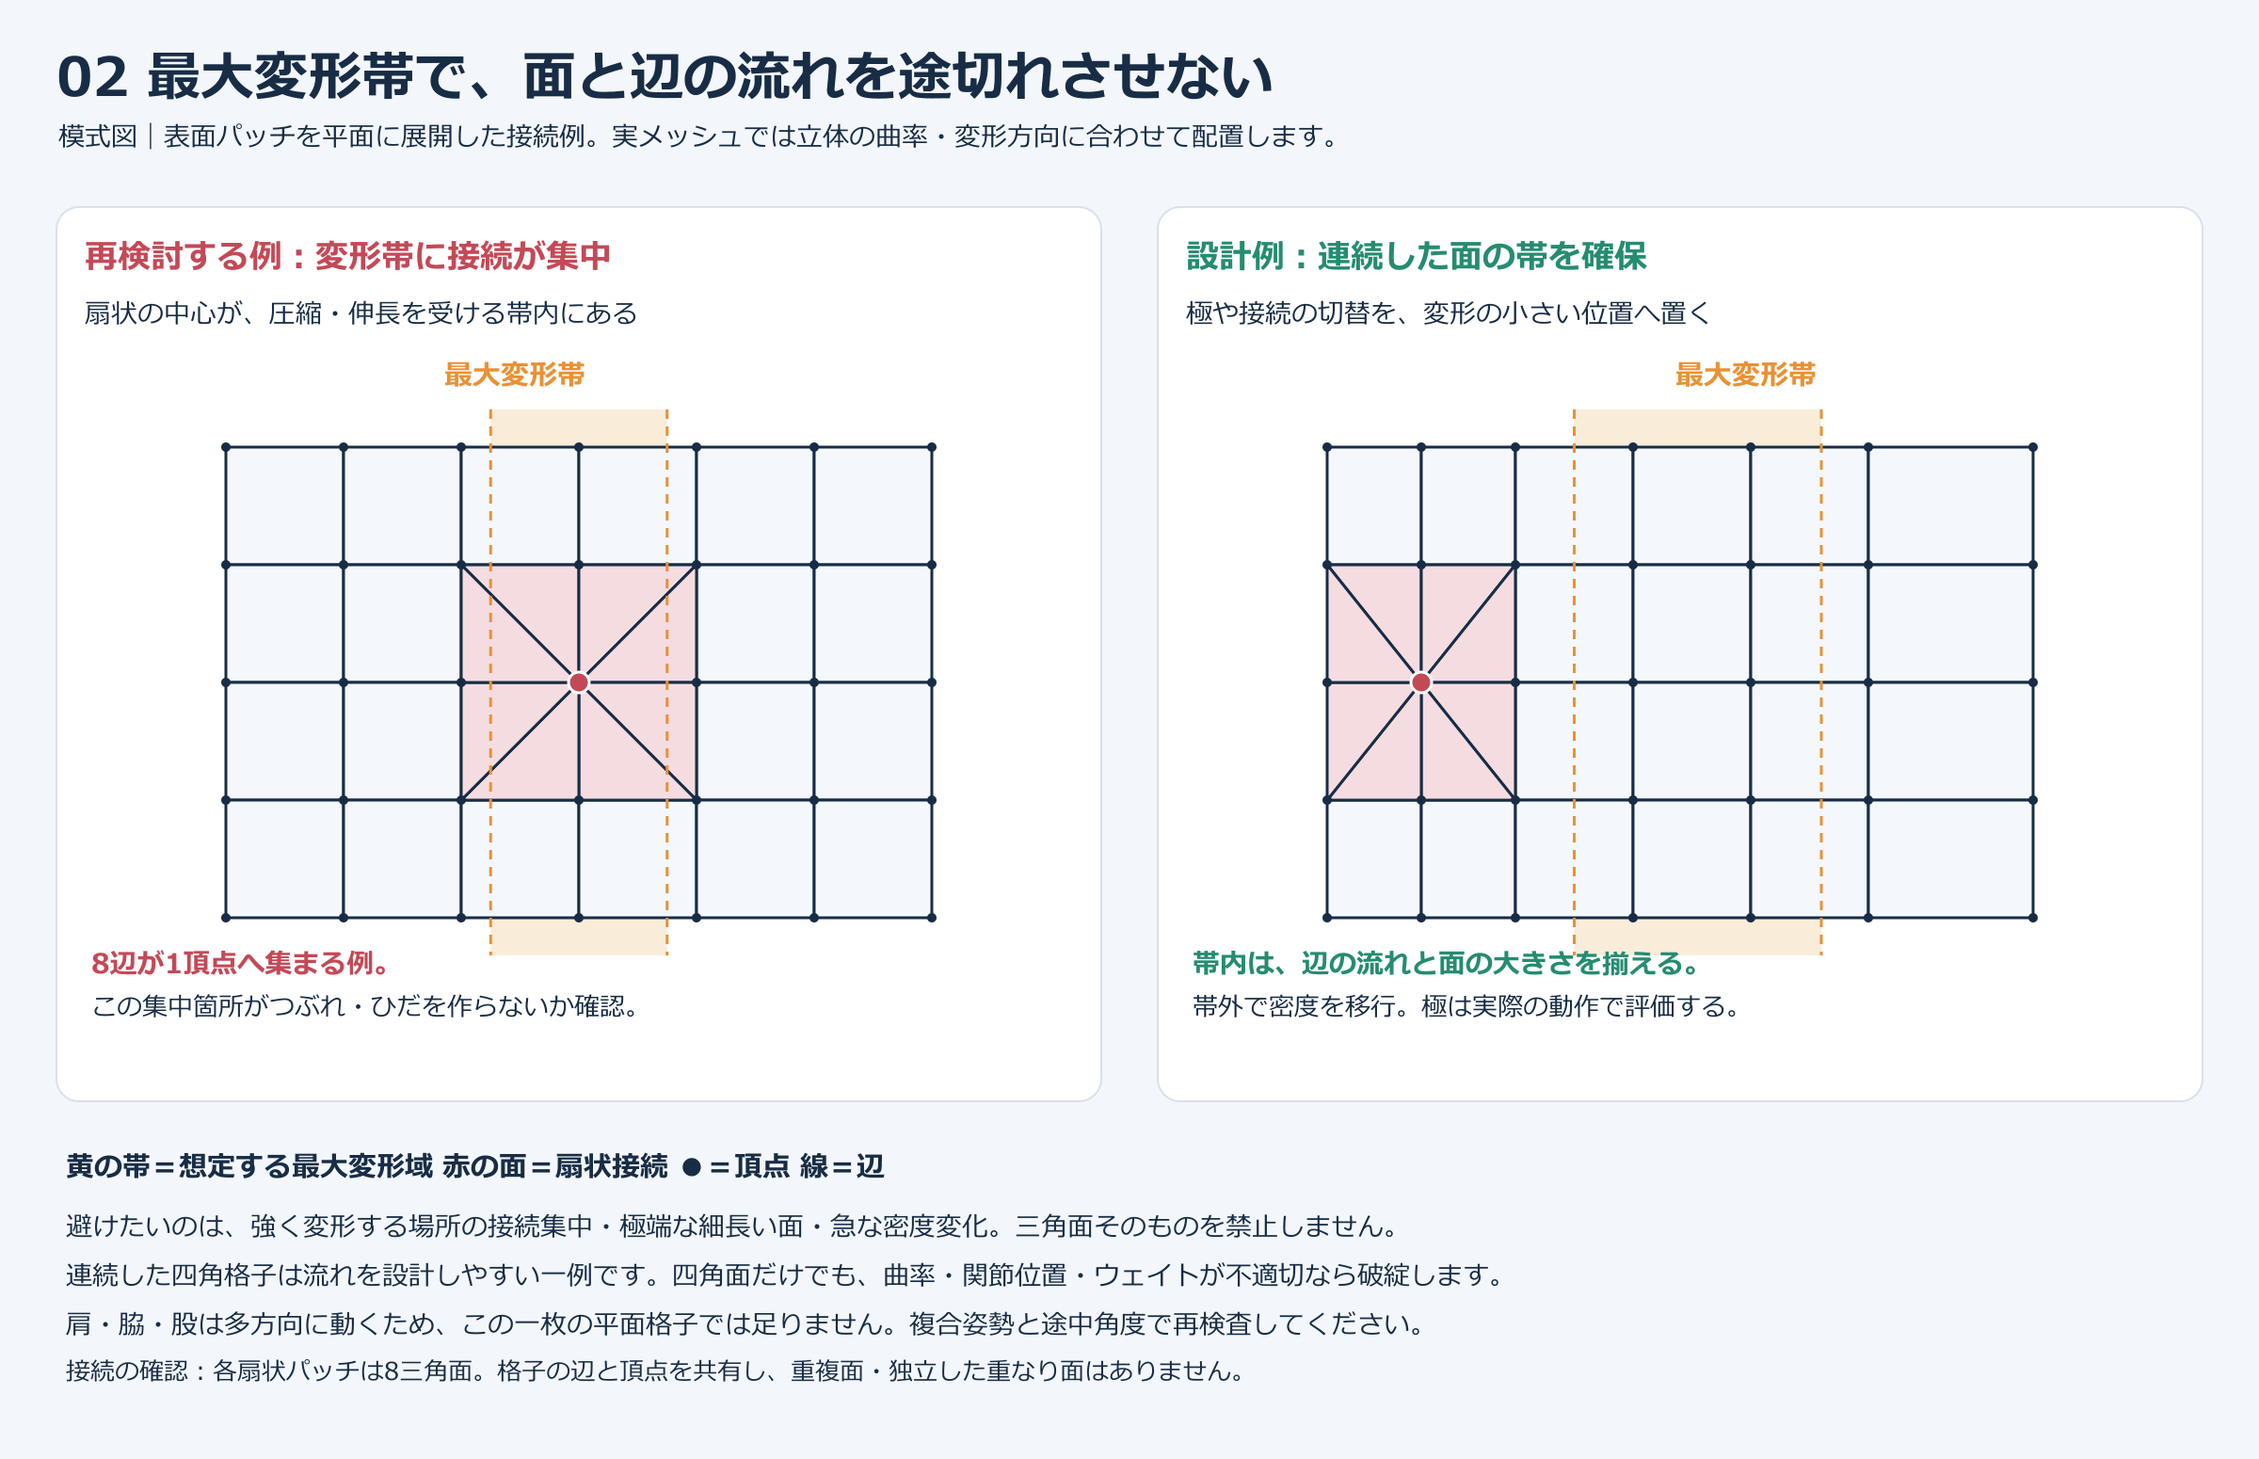
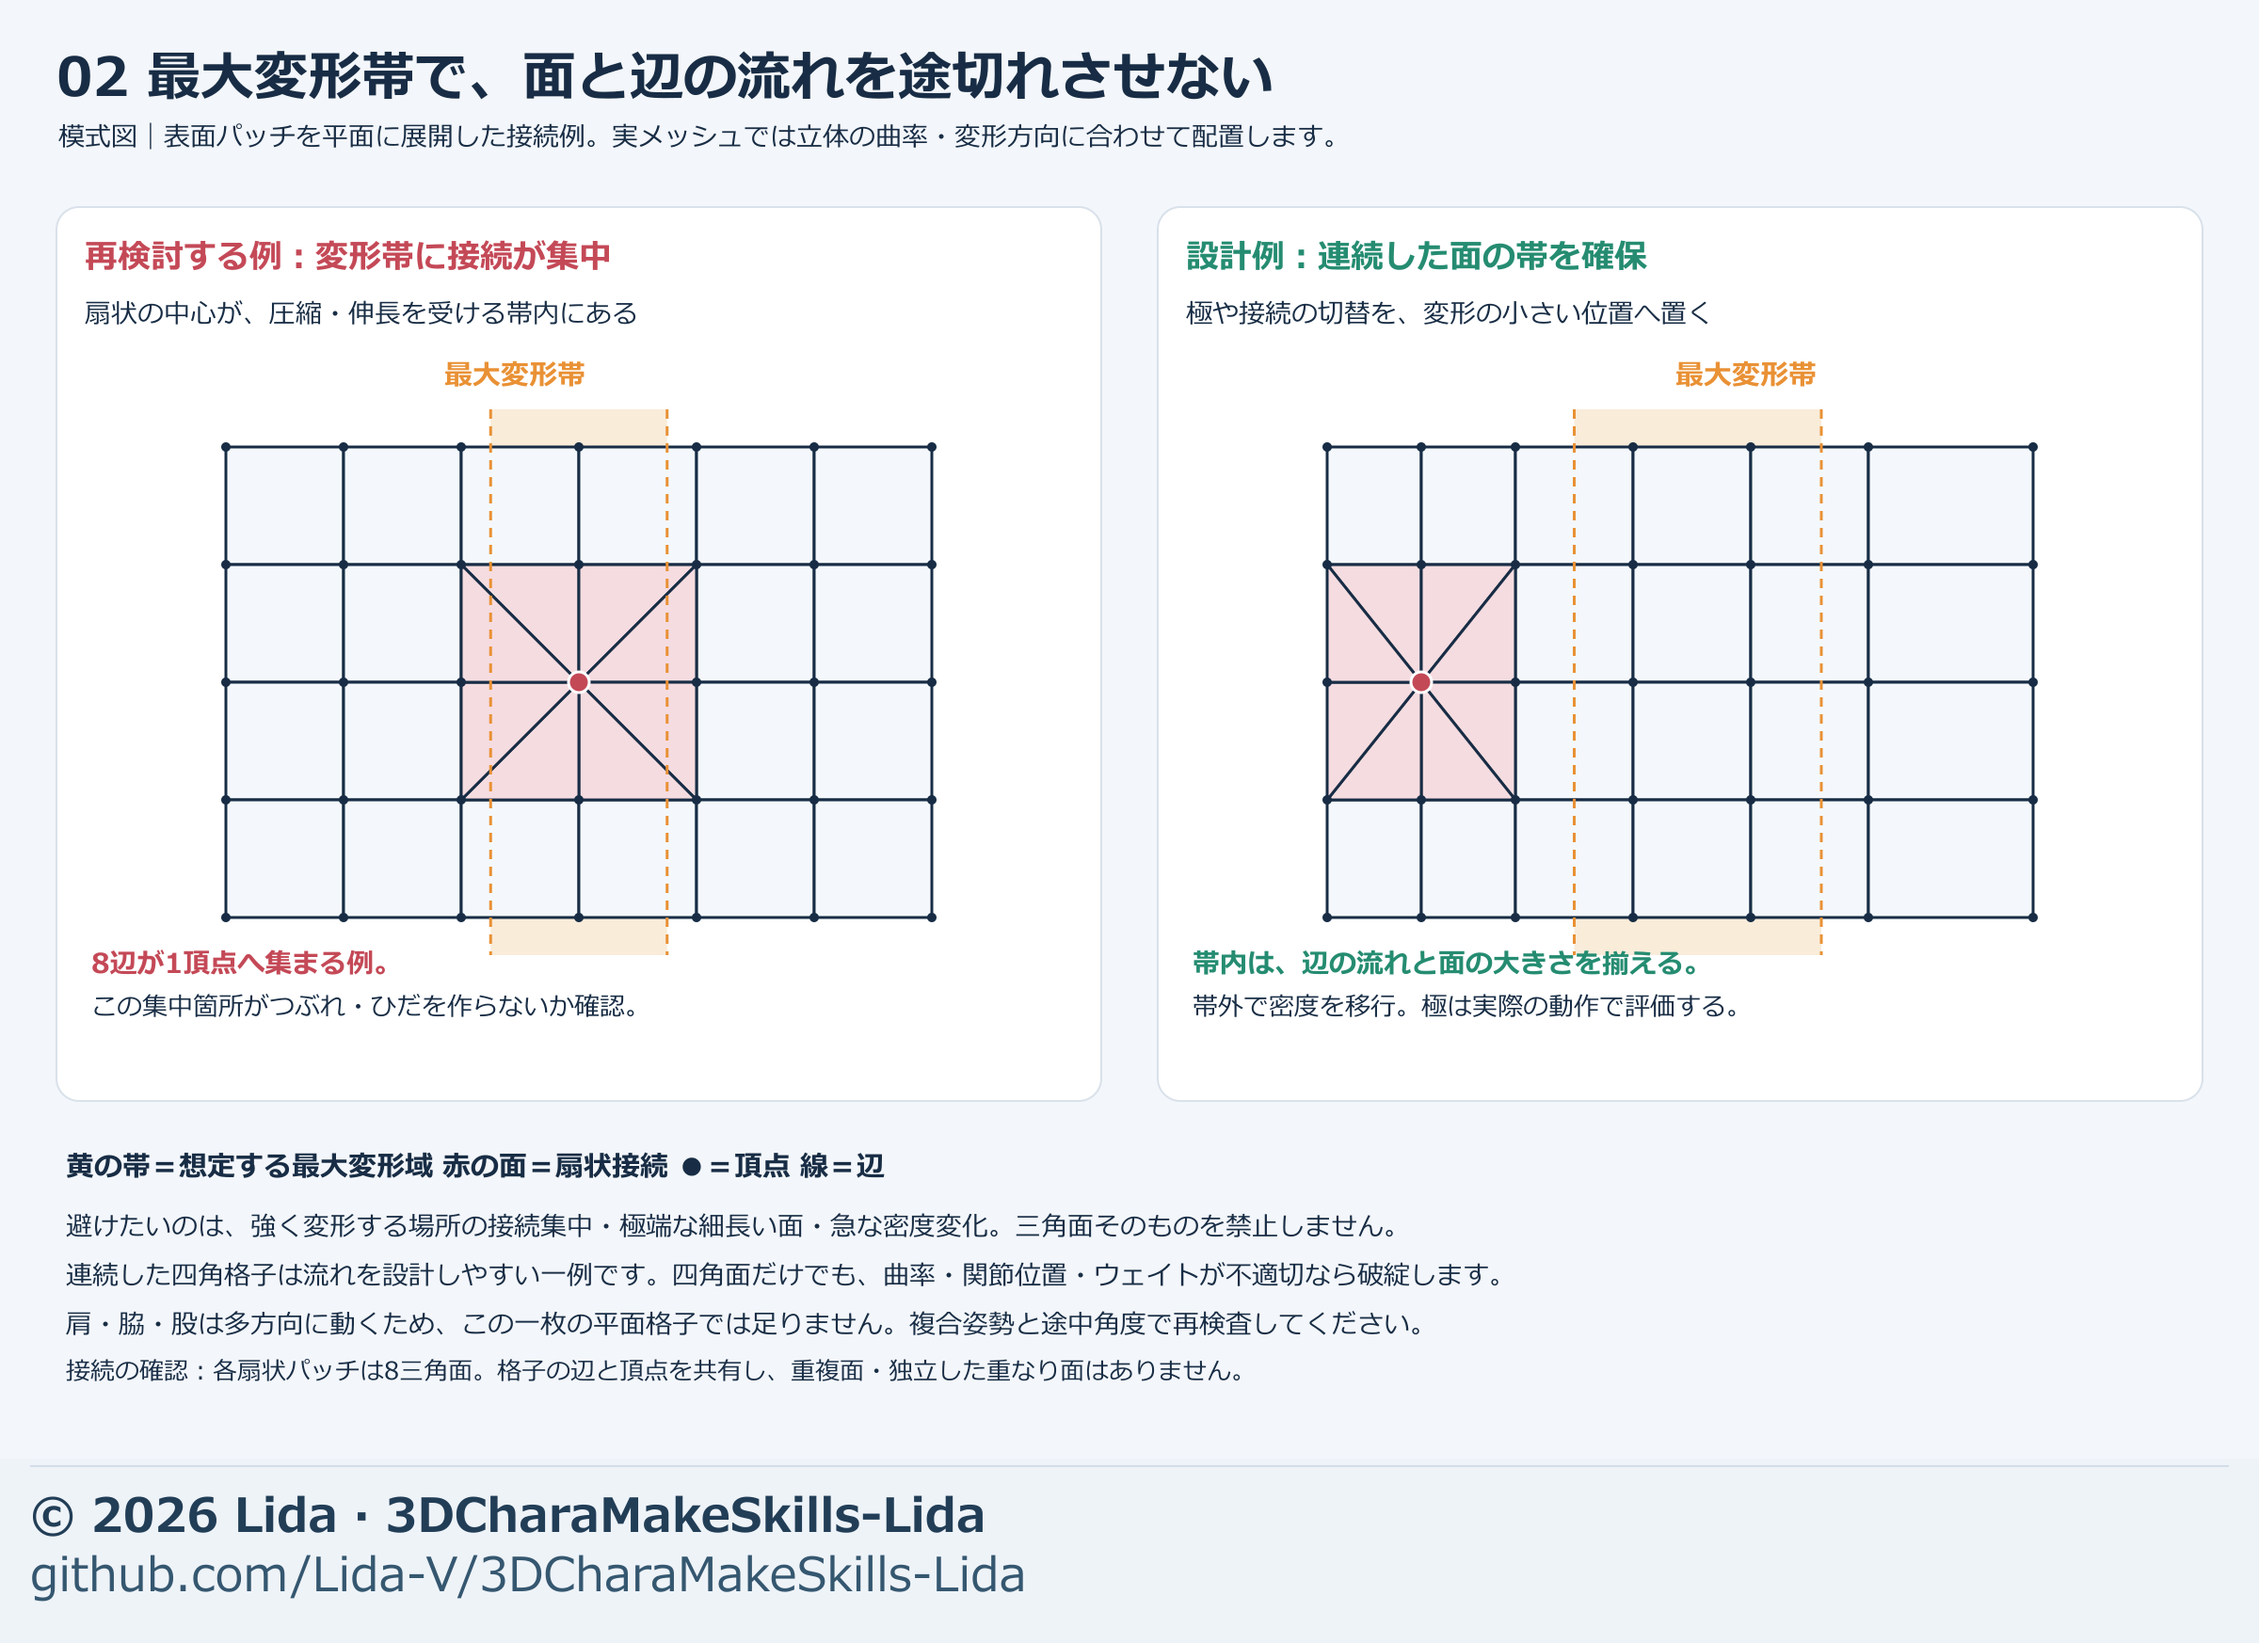
1.2.2：図解・作例画像・動画にLida名と出典を表示 (#12)
16組のSVG/PNGと実モデル紹介PNGへ©2026Lidaと出典URLの余白帯を追加。元の図要素と実PNG画素/色表示情報を保持。紹介動画は全画角/10秒/24fpsを保持した出典帯付き版へ。86ファイル・287リンク・30テスト・完成ZIPと匿名ソース照合、2 CI checks成功。利用条件・モデル・補助コードは保持。

diff --git a/media/README.md b/media/README.md
@@ -4,14 +4,18 @@
 
 | 掲載物 | 確認できるもの |
 | --- | --- |
-| `lida-finished-body.png`（820×1000） | 斜めからの全身。多段衣装・髪・翼・装飾・靴 |
-| `lida-finished-face.png`（820×1000） | 正面のバストアップ。顔・髪・冠・襟・胸元の装飾 |
-| [lida-model-turntable.mp4](https://github.com/Lida-V/3DCharaMakeSkills-Lida/releases/download/v1.0.2/lida-model-turntable.mp4)（Release添付） | 10秒・1448×900・24fps・音声なし。全身の回転と笑顔・驚き・口型「あ」・瞬き |
+| `lida-finished-body.png`（820×1098） | 斜めからの全身。多段衣装・髪・翼・装飾・靴。元画像820×1000と下部の出典帯 |
+| `lida-finished-face.png`（820×1098） | 正面のバストアップ。顔・髪・冠・襟・胸元の装飾。元画像820×1000と下部の出典帯 |
+| [lida-model-turntable-attributed.mp4](https://github.com/Lida-V/3DCharaMakeSkills-Lida/releases/download/v1.2.2/lida-model-turntable-attributed.mp4)（Release添付） | 10秒・1448×984・24fps・240フレーム・音声なし。全身の回転と笑顔・驚き・口型「あ」・瞬き。元画角1448×900と下部の出典帯 |
 
 基準画像とTripo等の生成モデルから、形状・表情キー・骨とスキンウェイト・衣装や髪や翼の追従・トゥーン材質を調整した制作例です。各工程の試行錯誤を含む仕上がりで、初回生成だけの結果や同じ品質を自動保証する見本ではありません。
 
 表示条件はBlender 5.2.1 LTS／EEVEE、制作モデル内のLidaSoftToon、灰色背景、Standard変換・露出0です。全身は斜めの正投影、顔は正面のバストアップ。別配布の汎用アドオンやUnity／UEへ適用しただけで、同じ外観になることを示す画像ではありません。
 
-PNGは表示に不要な撮影情報とローカルパスを除き、画素と色の表示情報を保持しました。顔や体型、明るさを画像加工で補正していません。動画はカメラ周回と既存の表情キーによるもので、参考ダンスFBXを使っていません。
+PNGは表示に不要な撮影情報とローカルパスを除いた元画像を台紙に配置し、下98pxの余白へ「© 2026 Lida · 3DCharaMakeSkills-Lida」と配布元URLを追加しました。元画像820×1000の画素領域と色の表示情報は完全一致を確認しています。顔や体型、明るさを画像加工で補正していません。
+
+動画は元の1448×900の全画角を残し、下84pxへ「© 2026 Lida」と配布元URLを常時表示する版です。再エンコードを含むため、元動画との画素完全一致は示しません。カメラ周回と既存の表情キーによるもので、参考ダンスFBXは使っていません。
+
+出典帯は資料単体でも出所をたどるための表示です。配布元は [3DCharaMakeSkills-Lida](https://github.com/Lida-V/3DCharaMakeSkills-Lida)。商用利用を含む従来の利用条件は変更していません。
 
 配布するのは紹介画像・動画と制作ノウハウです。モデルデータやキャラクターデザインの利用許可とは別です。[配布条件](../LICENSE-POLICY.md)を参照してください。

diff --git a/README.md b/README.md
@@ -1,6 +1,6 @@
 # 3DCharaMakeSkills-Lida
 
-画像から3Dキャラクターを作るときの、素材・調整方法・AIへの指示をまとめた **配布版1.2.1** です。初心者向けに「素材→順番→具体調整→つまずき」を整理し、16枚の自作図解と実モデルの表示例を収録しています。公開リポジトリから取得できます。
+画像から3Dキャラクターを作るときの、素材・調整方法・AIへの指示をまとめた **配布版1.2.2** です。初心者向けに「素材→順番→具体調整→つまずき」を整理し、16枚の自作図解と実モデルの表示例を収録しています。公開リポジトリから取得できます。
 
 ## 実際の制作例
 
@@ -10,9 +10,11 @@
 | --- | --- |
 | ![リダの実モデルの全身。多段スカート・ロングヘアー・翼・靴まで確認できるBlender描画](media/lida-finished-body.png) | ![リダの実モデルのバストアップ。顔・髪・冠・襟・ペンダントを確認できるBlender描画](media/lida-finished-face.png) |
 
-**[10秒動画：全身の回転と表情を見る](https://github.com/Lida-V/3DCharaMakeSkills-Lida/releases/download/v1.0.2/lida-model-turntable.mp4)** — 左は全身の1周、右は笑顔・驚き・口型「あ」・瞬き。音声なし。
+**[10秒動画：全身の回転と表情を見る](https://github.com/Lida-V/3DCharaMakeSkills-Lida/releases/download/v1.2.2/lida-model-turntable-attributed.mp4)** — 左は全身の1周、右は笑顔・驚き・口型「あ」・瞬き。音声なし。
 
 表示はBlender 5.2.1 LTS／EEVEEと制作モデル内のトゥーン材質です。[画像・動画の内容と表示条件](media/README.md)を確認できます。
+
+図解と紹介画像・動画には、画像だけで共有された時も出所を確認できるよう、余白へLida名と配布元URLを表示しています。本文やモデルの見える範囲は遮っていません。利用条件は従来どおりです。
 
 **Tripoなどの3Dモデル生成サービスの利用を前提とした制作手順です。商用利用も可能です。**
 

diff --git a/AGENTS.md b/AGENTS.md
@@ -66,3 +66,8 @@
 - ユーザーの明示指示によりLidaAngelToonも一般公開する。Skills 1.2.1では公開Release v0.1.0とaddon ZIPの直接取得先へ更新し、Skillsの任意取得という位置づけを維持する。
 - 配布シェーダーの確認済み範囲はBlender 5.2.1 LTS／EEVEE。別制作のエンジン実装と混同せず、このReleaseにUnity／UE実装やVRM自動変換が含まれると案内しない。原始図形→モデルのコピーで確認する。
 - 公開状態・Release資産の匿名取得は制作側で確認する。本文と取得先の変更をコードやモデルの更新として扱わず、ファイル別ライセンスを維持する。
+
+## 2026-10-15 資料画像の来歴表示
+
+- ユーザー指示により、配布図版16組のSVG/PNGと実モデル紹介PNG2枚へ、余白の出典帯にLida名と配布元URLを表示。本文・モデル・矢印を遮らず、資料だけが共有されても来歴をたどれる形にする。新規・更新図もこの表示を維持する。
+- SVGの元要素を保持してPNGを再描画。実PNGは元画像の画素領域を変えず台紙の下へ帯を足す。動画の再エンコードとPNGの画素保持は区別する。これは表示の整備であり、新しい利用制限やモデルデザインの利用許可ではない。

diff --git a/skills/lida-avatar-workflow/assets/README.md b/skills/lida-avatar-workflow/assets/README.md
@@ -24,3 +24,9 @@
 模式図は制作記録の方法を整理したもので、実モデルの修正前後・採用済み成果を新たに示すものではありません。実エッジ、破線の案、模式図を取り違えない。[膝の図の読み方](../references/knee-edge-placement.md)。
 
 図内の形・寸法・列数・版記号は共通の設定値ではありません。色と番号、実線/破線、向きの説明を使い、対象部位の実画像と対応させてください。PNGの表示も目視確認してから更新します。
+
+## 資料単体で分かる出典表示
+
+全16組のSVGとPNGは、説明の下へ余白を足し、「© 2026 Lida · 3DCharaMakeSkills-Lida」と `github.com/Lida-V/3DCharaMakeSkills-Lida` を表示しています。本文・線・矢印を覆う透かしではなく、画像だけで共有された時の来歴表示です。
+
+SVGの元の図形・文字は保持し、PNGはそのSVGから描画しています。PNGとSVGの両方で出典帯が読めることを確認して更新してください。表示の追加で利用条件を変更してはいません。

diff --git a/CHANGELOG.md b/CHANGELOG.md
@@ -4,6 +4,12 @@
 
 次の変更は「何が困ったか・どう直したか・確認範囲」を短く追記する。
 
+## 1.2.2 — 2026-10-15
+
+- 図だけを二次配布された場合にも出所を確認できるよう、自作図版16組のSVG/PNGへLida名・リポジトリ名・配布元URLを表示する余白の出典帯を追加。元の図形・文字を保持し、SVGからPNGを描画した。
+- 実モデル紹介PNG2枚は元の画素領域を保持して出典帯を追加。10秒動画にも下部の出典帯を加えた版へ案内を更新し、画像と動画それぞれの寸法・調整範囲を記載した。
+- 18画像の出典表示、SVGの既存要素、元画像領域の画素保持、画像署名とハッシュ、既存30テスト、スキル形式と完成ZIPを確認。利用条件、モデル本体、制作補助コードは変更しない。
+
 ## 1.2.1 — 2026-10-15
 
 - LidaAngelToonの一般公開に合わせ、非公開・アクセス権の案内を公開Releaseとaddon ZIPの直接取得へ更新。
